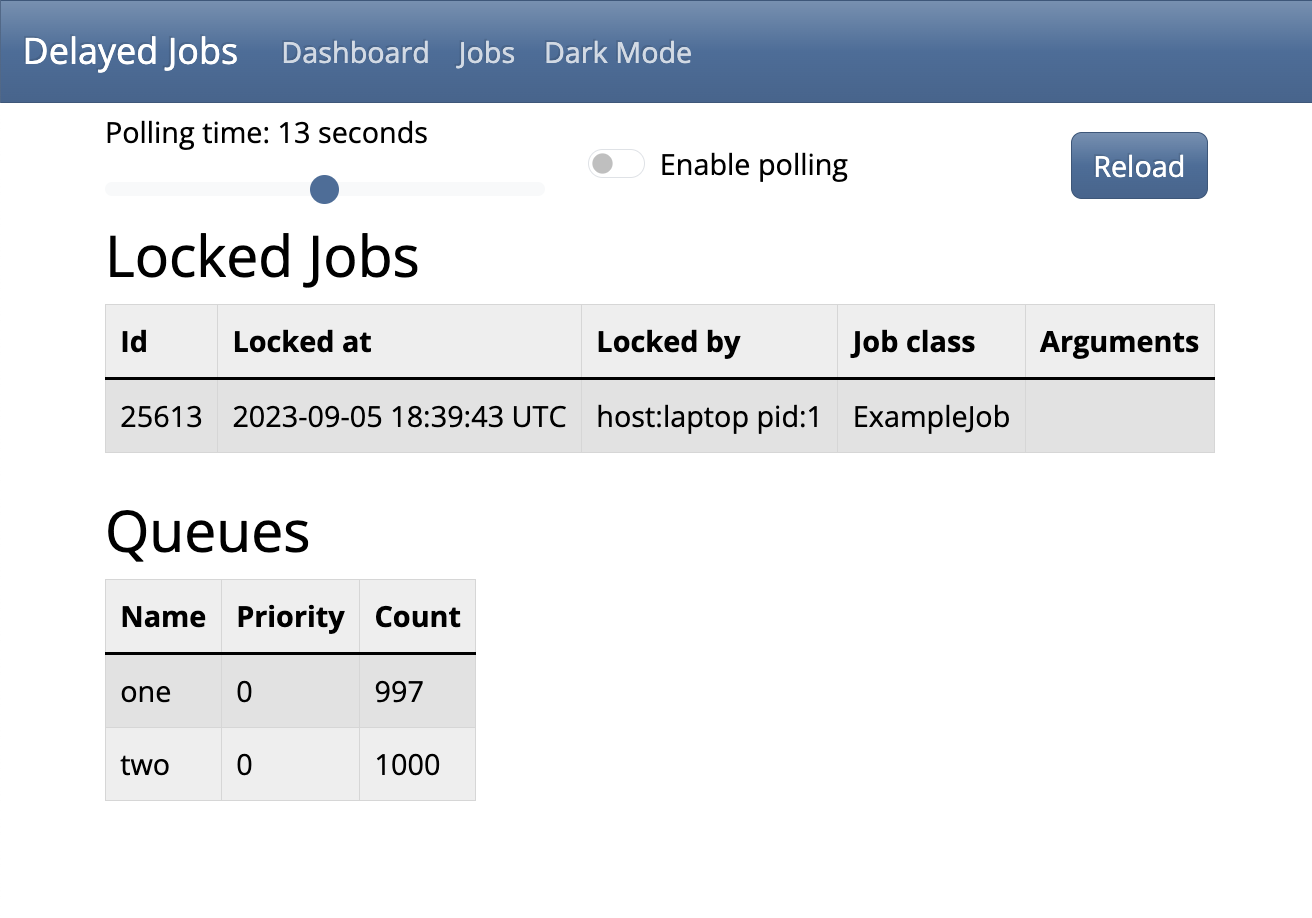
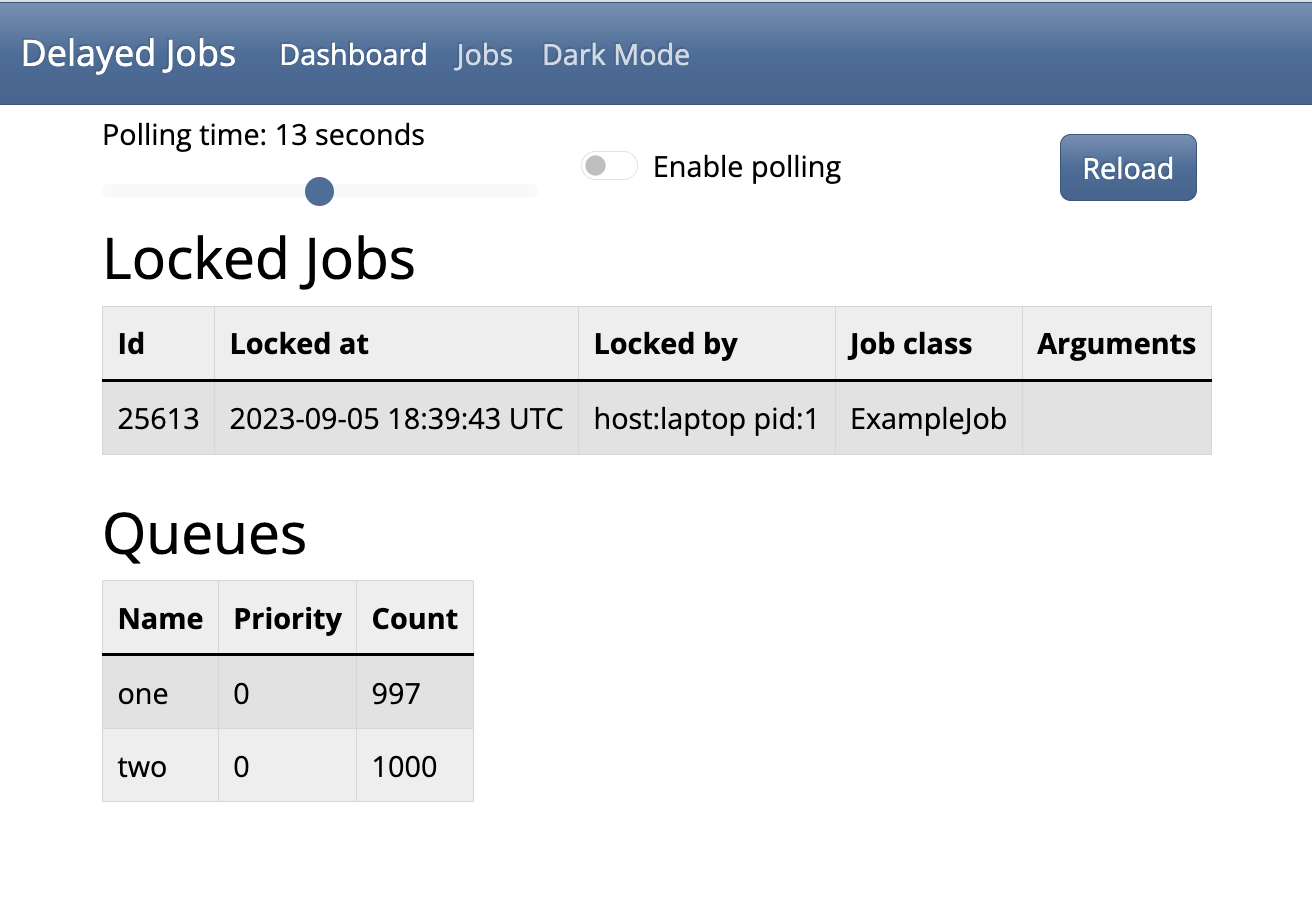
Highlight nav links

diff --git a/test/system/rush_job/navigation_test.rb b/test/system/rush_job/navigation_test.rb
@@ -4,26 +4,36 @@ module RushJob
   class NavigationTest < ApplicationSystemTestCase
     test 'root path' do
       visit '/rush_job/'
+
       assert_selector 'h2', text: 'Locked Jobs'
+      find_link('Dashboard', class: 'nav-link active')
+      find_link('Jobs', class: 'nav-link')
     end
 
     test 'navigate to jobs page' do
       visit '/rush_job/'
       click_link 'Jobs'
+
       assert_selector '#rush-job-jobs'
+      find_link('Dashboard', class: 'nav-link')
+      find_link('Jobs', class: 'nav-link active')
     end
 
     test 'navigate to dashboard' do
       visit '/rush_job/'
       click_link 'Jobs'
       click_link 'Dashboard'
+
       assert_selector 'h2', text: 'Locked Jobs'
+      find_link('Dashboard', class: 'nav-link active')
+      find_link('Jobs', class: 'nav-link')
     end
 
     test 'navigate to root path' do
       visit '/rush_job/'
       click_link 'Jobs'
       click_link 'Delayed Jobs'
+
       assert_selector 'h2', text: 'Locked Jobs'
     end
   end
